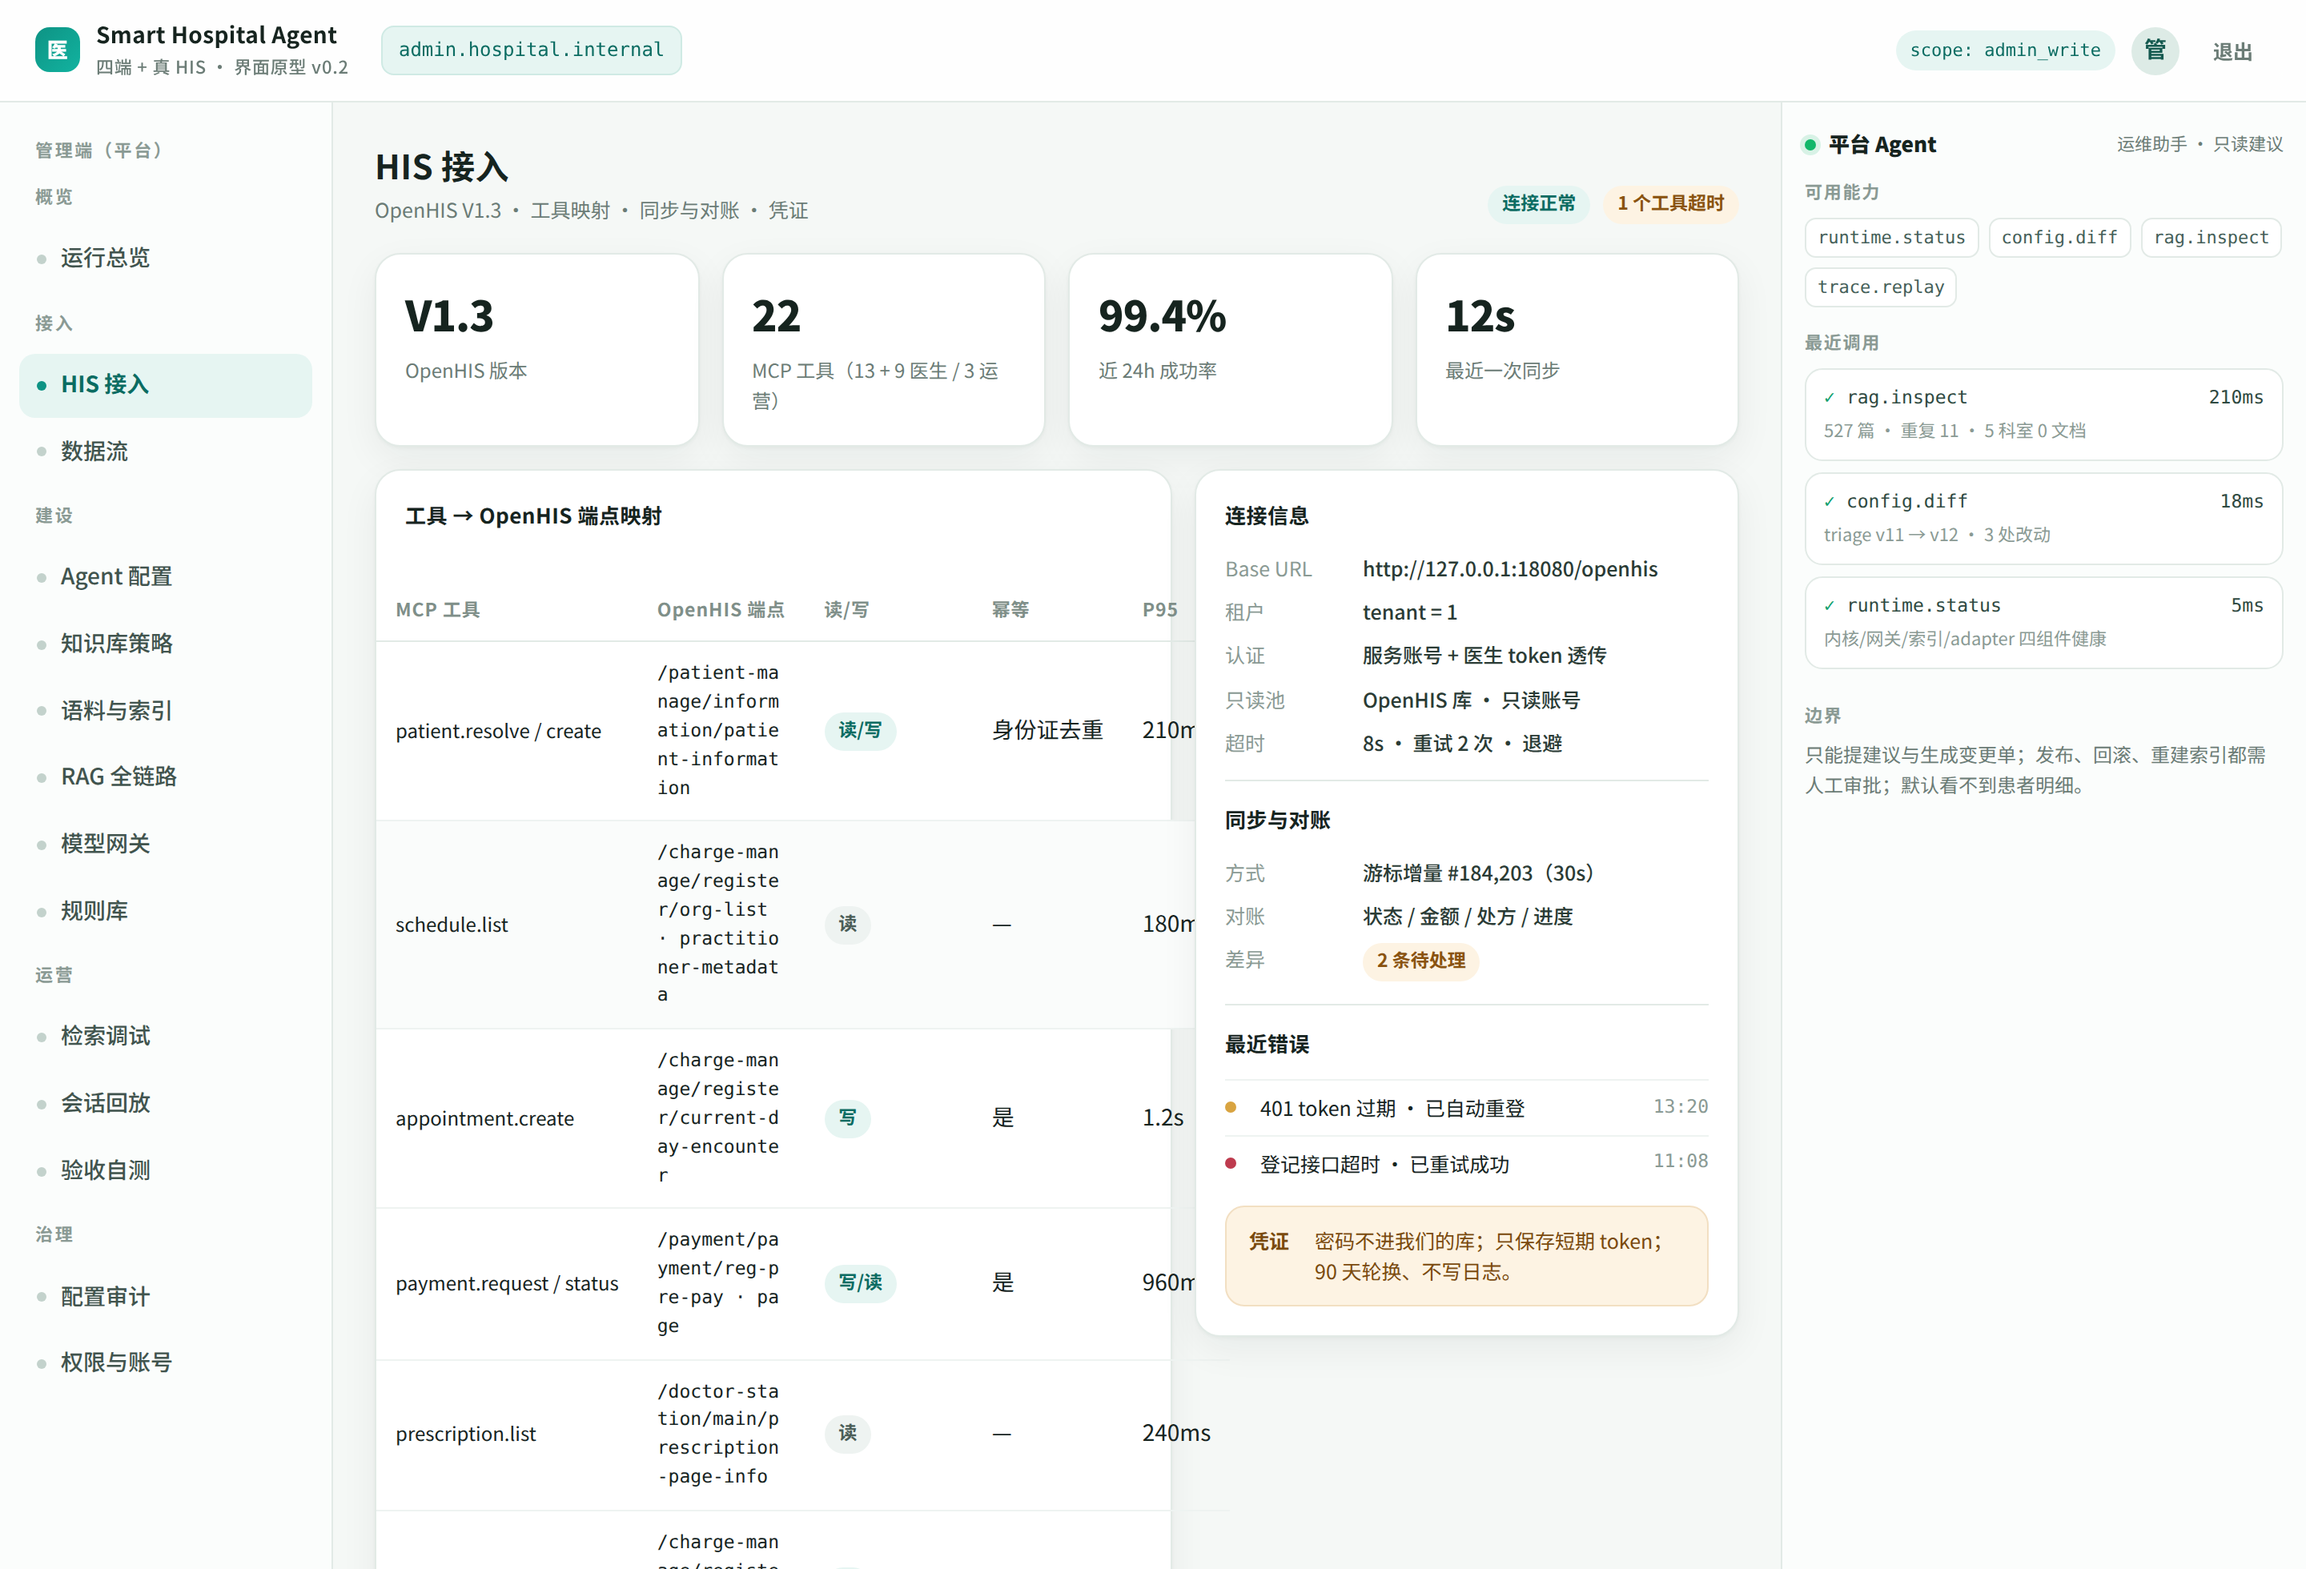
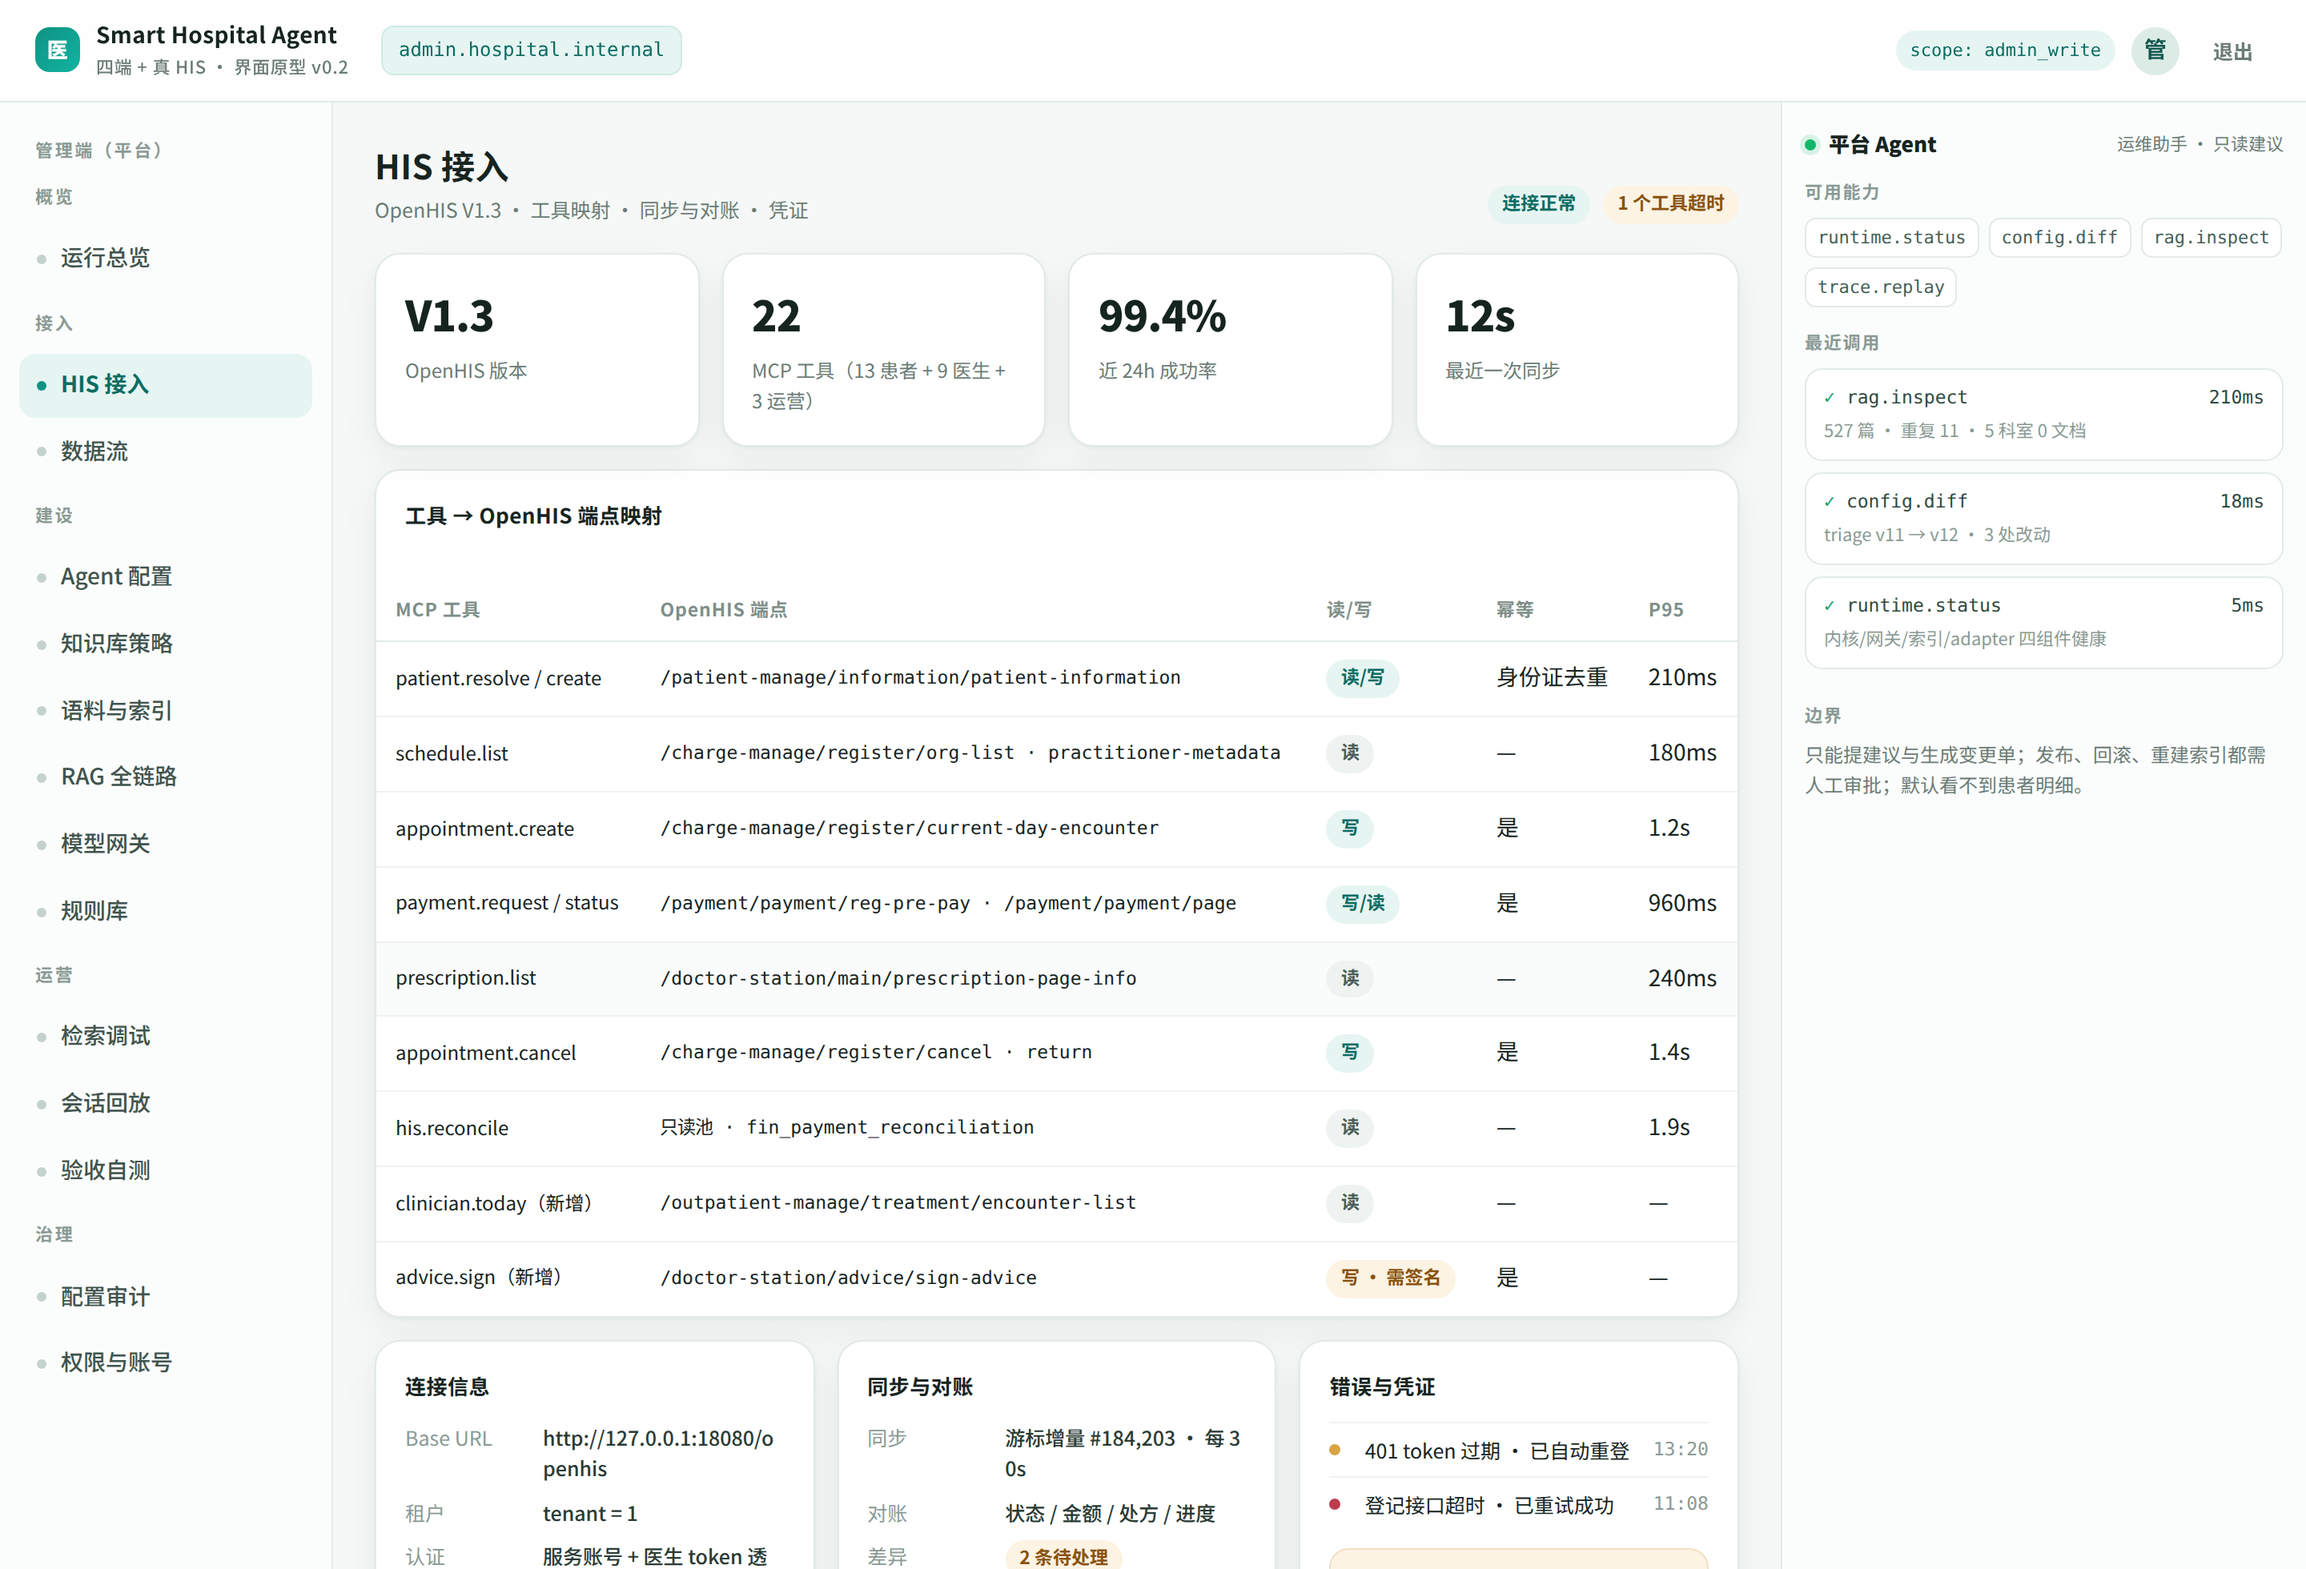
fix(prototype): HIS page full-width table and three info cards

diff --git a/prototype/dual-end.html b/prototype/dual-end.html
@@ -1467,35 +1467,35 @@ body.dark .todo-row{border-top-color:#1e2a35}
       </div>
     </section>
 
-    <section class="screen" id="a-his">
+        <section class="screen" id="a-his">
       <div class="page-head">
         <div><h1>HIS 接入</h1><p>OpenHIS V1.3 · 工具映射 · 同步与对账 · 凭证</p></div>
         <div class="right"><span class="badge teal">连接正常</span><span class="badge amber">1 个工具超时</span></div>
       </div>
       <div class="grid g4" style="margin-bottom:14px">
         <div class="card pad kpi"><div class="n">V1.3</div><div class="l">OpenHIS 版本</div></div>
-        <div class="card pad kpi"><div class="n">22</div><div class="l">MCP 工具（13 + 9 医生 / 3 运营）</div></div>
+        <div class="card pad kpi"><div class="n">22</div><div class="l">MCP 工具（13 患者 + 9 医生 + 3 运营）</div></div>
         <div class="card pad kpi"><div class="n">99.4%</div><div class="l">近 24h 成功率</div></div>
         <div class="card pad kpi"><div class="n">12s</div><div class="l">最近一次同步</div></div>
       </div>
-      <div class="grid" style="grid-template-columns:1fr 340px;align-items:start">
-        <div class="card">
-          <div class="pad"><div class="h2">工具 → OpenHIS 端点映射</div></div>
-          <table>
-            <thead><tr><th>MCP 工具</th><th>OpenHIS 端点</th><th>读/写</th><th>幂等</th><th>P95</th></tr></thead>
-            <tbody>
-              <tr><td>patient.resolve / create</td><td>/patient-manage/information/patient-information</td><td><span class="badge teal">读/写</span></td><td>身份证去重</td><td>210ms</td></tr>
-              <tr><td>schedule.list</td><td>/charge-manage/register/org-list · practitioner-metadata</td><td><span class="badge">读</span></td><td>—</td><td>180ms</td></tr>
-              <tr><td>appointment.create</td><td>/charge-manage/register/current-day-encounter</td><td><span class="badge teal">写</span></td><td>是</td><td>1.2s</td></tr>
-              <tr><td>payment.request / status</td><td>/payment/payment/reg-pre-pay · page</td><td><span class="badge teal">写/读</span></td><td>是</td><td>960ms</td></tr>
-              <tr><td>prescription.list</td><td>/doctor-station/main/prescription-page-info</td><td><span class="badge">读</span></td><td>—</td><td>240ms</td></tr>
-              <tr><td>appointment.cancel</td><td>/charge-manage/register/cancel · return</td><td><span class="badge teal">写</span></td><td>是</td><td>1.4s</td></tr>
-              <tr><td>his.reconcile</td><td>只读池 · fin_payment_reconciliation</td><td><span class="badge">读</span></td><td>—</td><td>1.9s</td></tr>
-              <tr><td>clinician.today（新增）</td><td>/outpatient-manage/treatment/encounter-list</td><td><span class="badge">读</span></td><td>—</td><td>—</td></tr>
-              <tr><td>advice.sign（新增）</td><td>/doctor-station/advice/sign-advice</td><td><span class="badge amber">写 · 需签名</span></td><td>是</td><td>—</td></tr>
-            </tbody>
-          </table>
-        </div>
+      <div class="card" style="margin-bottom:14px">
+        <div class="pad"><div class="h2">工具 → OpenHIS 端点映射</div></div>
+        <table>
+          <thead><tr><th>MCP 工具</th><th>OpenHIS 端点</th><th>读/写</th><th>幂等</th><th>P95</th></tr></thead>
+          <tbody>
+            <tr><td>patient.resolve / create</td><td>/patient-manage/information/patient-information</td><td><span class="badge teal">读/写</span></td><td>身份证去重</td><td>210ms</td></tr>
+            <tr><td>schedule.list</td><td>/charge-manage/register/org-list · practitioner-metadata</td><td><span class="badge">读</span></td><td>—</td><td>180ms</td></tr>
+            <tr><td>appointment.create</td><td>/charge-manage/register/current-day-encounter</td><td><span class="badge teal">写</span></td><td>是</td><td>1.2s</td></tr>
+            <tr><td>payment.request / status</td><td>/payment/payment/reg-pre-pay · /payment/payment/page</td><td><span class="badge teal">写/读</span></td><td>是</td><td>960ms</td></tr>
+            <tr><td>prescription.list</td><td>/doctor-station/main/prescription-page-info</td><td><span class="badge">读</span></td><td>—</td><td>240ms</td></tr>
+            <tr><td>appointment.cancel</td><td>/charge-manage/register/cancel · return</td><td><span class="badge teal">写</span></td><td>是</td><td>1.4s</td></tr>
+            <tr><td>his.reconcile</td><td>只读池 · fin_payment_reconciliation</td><td><span class="badge">读</span></td><td>—</td><td>1.9s</td></tr>
+            <tr><td>clinician.today（新增）</td><td>/outpatient-manage/treatment/encounter-list</td><td><span class="badge">读</span></td><td>—</td><td>—</td></tr>
+            <tr><td>advice.sign（新增）</td><td>/doctor-station/advice/sign-advice</td><td><span class="badge amber">写 · 需签名</span></td><td>是</td><td>—</td></tr>
+          </tbody>
+        </table>
+      </div>
+      <div class="grid g3">
         <div class="card pad">
           <div class="h2">连接信息</div>
           <div class="kv">
@@ -1505,15 +1505,20 @@ body.dark .todo-row{border-top-color:#1e2a35}
             <dt>只读池</dt><dd>OpenHIS 库 · 只读账号</dd>
             <dt>超时</dt><dd>8s · 重试 2 次 · 退避</dd>
           </div>
-          <div class="divider"></div>
+        </div>
+        <div class="card pad">
           <div class="h2">同步与对账</div>
           <div class="kv">
-            <dt>方式</dt><dd>游标增量 #184,203（30s）</dd>
+            <dt>同步</dt><dd>游标增量 #184,203 · 每 30s</dd>
             <dt>对账</dt><dd>状态 / 金额 / 处方 / 进度</dd>
             <dt>差异</dt><dd><span class="badge amber">2 条待处理</span></dd>
+            <dt>上次对账</dt><dd>12 秒前 · 128 条</dd>
           </div>
           <div class="divider"></div>
-          <div class="h2">最近错误</div>
+          <div class="tiny muted">对账读 HIS 只读库，不经过接口，避免“自己校对成功”。</div>
+        </div>
+        <div class="card pad">
+          <div class="h2">错误与凭证</div>
           <div class="rec"><span class="dot-s" style="background:#d9a441"></span>401 token 过期 · 已自动重登<span class="t">13:20</span></div>
           <div class="rec"><span class="dot-s" style="background:#BE3B4E"></span>登记接口超时 · 已重试成功<span class="t">11:08</span></div>
           <div class="alert amber" style="margin-top:10px"><b>凭证</b><span>密码不进我们的库；只保存短期 token；90 天轮换、不写日志。</span></div>
